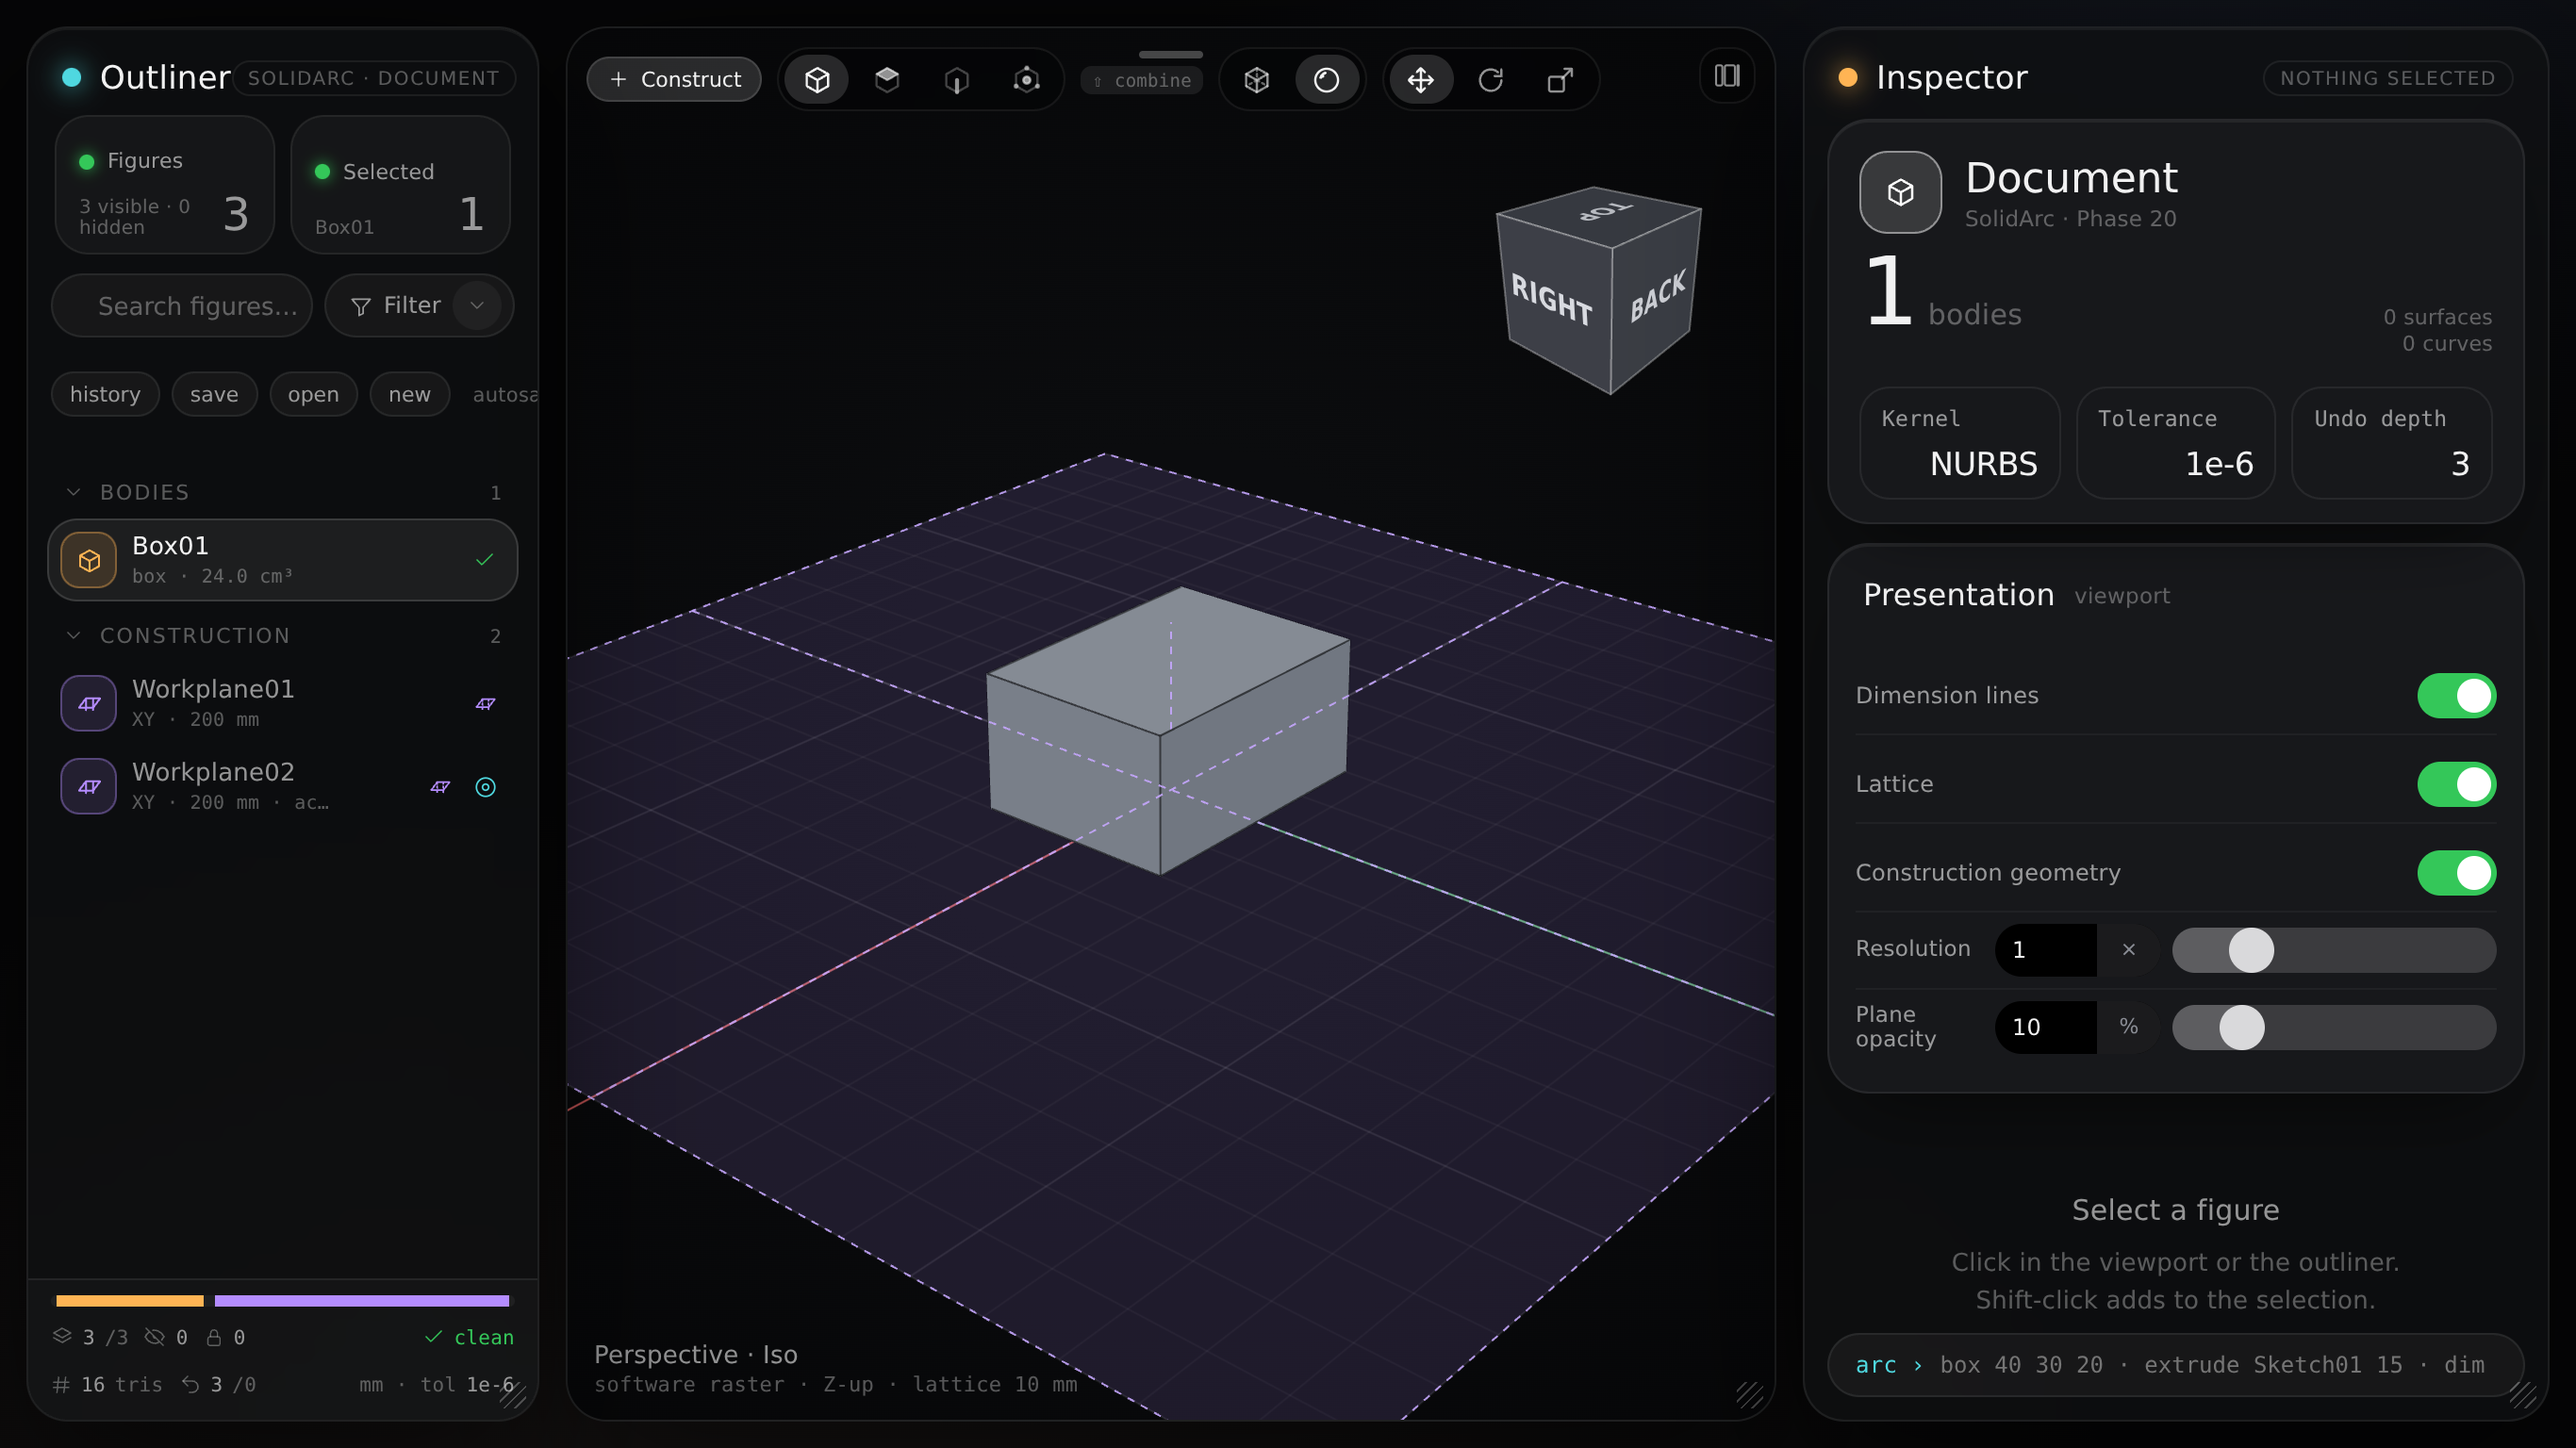
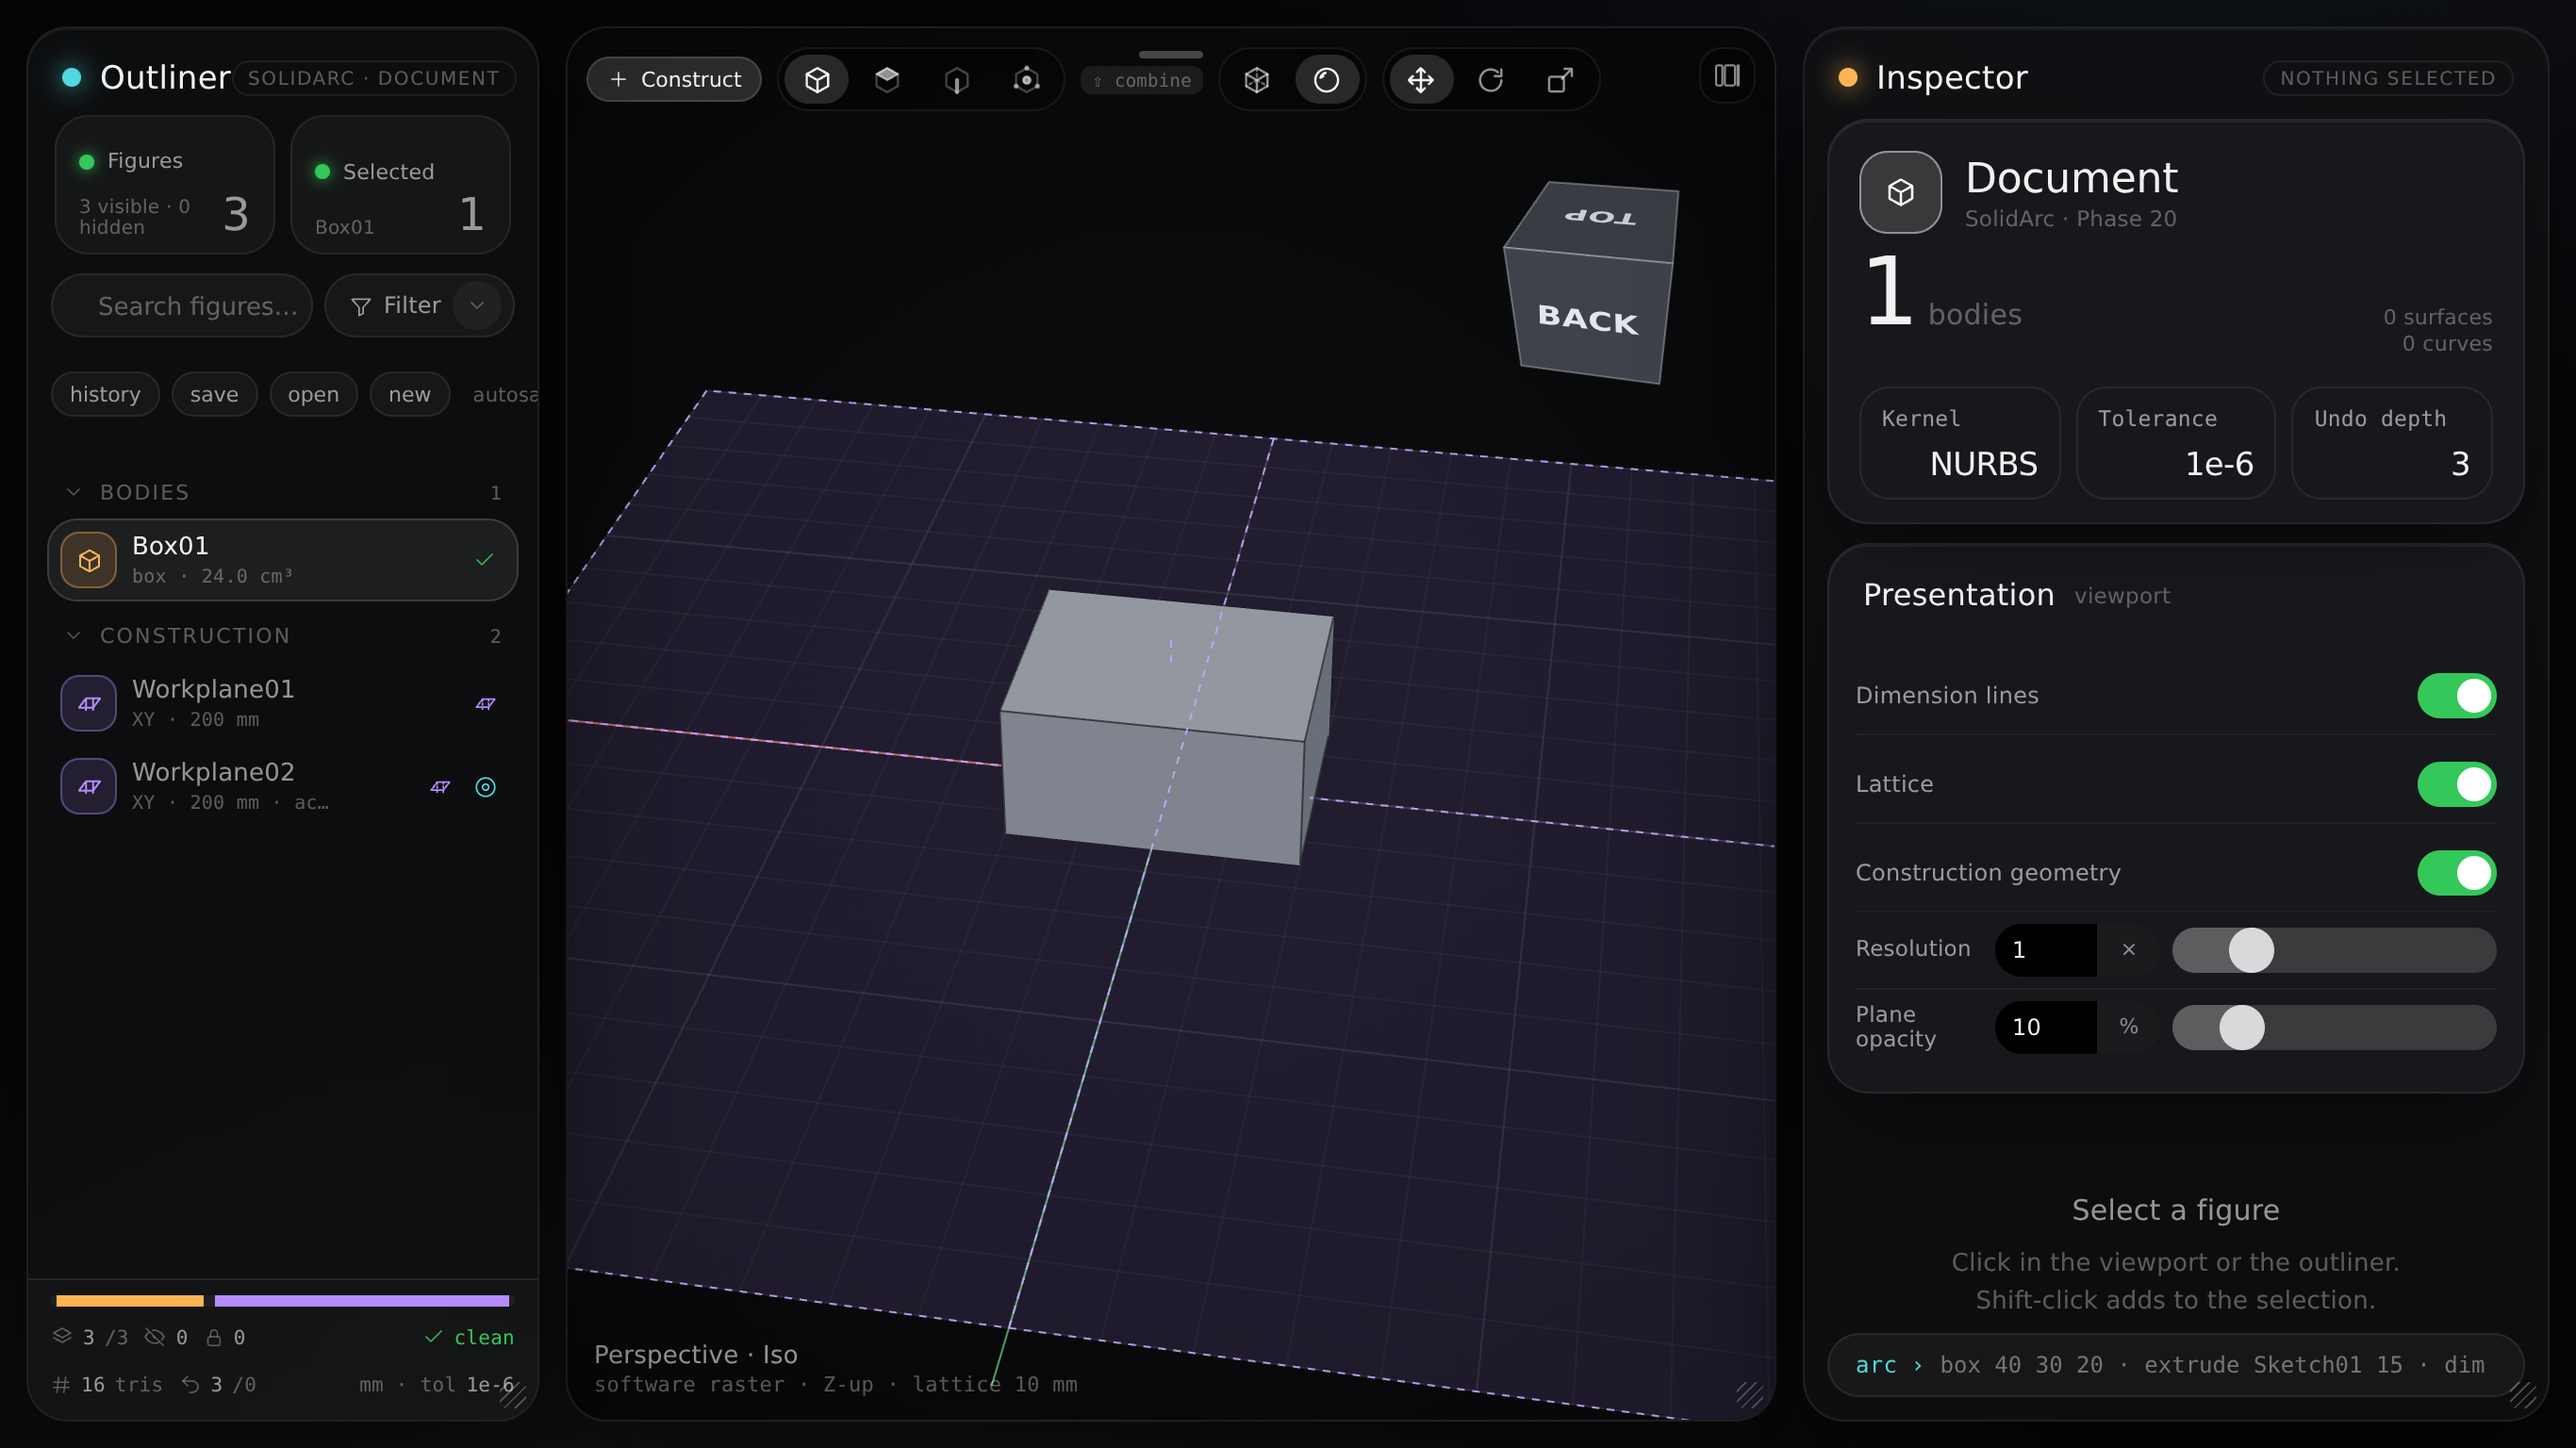
SolidArc viewport: paint workplane fills first so bodies are no longer tinted/cut by the plane sheet (box vs grid mismatch)

diff --git a/SolidArcInspectorDesign/solidarc/index.html b/SolidArcInspectorDesign/solidarc/index.html
@@ -1515,7 +1515,8 @@ function drawInner(){if(!draw._sync){draw._sync=true;try{syncLinks();}finally{dr
     else if(m.quads){m.quads.forEach(q=>{for(let k=0;k<4;k++){const a=project(xform(f,q.p[k])),b=project(xform(f,q.p[(k+1)%4]));if(a&&b)items.push({z:Math.min(a[2],b[2]),type:'l',s:[a,b],f,sel,acc,faint:true});}});}
     m.lines.forEach(l=>{const s=l.map(p=>project(xform(f,p)));if(s.some(x=>!x))return;items.push({z:Math.min(s[0][2],s[1][2])-0.05,type:'l',s,f,sel,acc,cons:f.cons||m.cons,tan:l.tangent});});
     });
-  items.sort((a,b)=>b.z-a.z);drawRegions(g);
+  /* workplane fills are a translucent backdrop: always paint them first so a body is never tinted/cut by the plane sheet it stands on */
+  items.sort((a,b)=>{const pa=a.type==='p',pb=b.type==='p';return pa!==pb?(pa?-1:1):b.z-a.z;});drawRegions(g);
   items.forEach(it=>{if(it.type==='f'){g.fillStyle=it.sel?'rgba(127,240,245,.22)':'rgba(79,216,224,.12)';g.beginPath();it.s.forEach((q,i)=>i?g.lineTo(q[0],q[1]):g.moveTo(q[0],q[1]));g.closePath();g.fill();}
     else if(it.type==='p'){const A=doc.planeAlpha==null?0.10:doc.planeAlpha;g.fillStyle=it.act?`rgba(180,140,255,${A})`:`rgba(180,140,255,${A*.35})`;g.beginPath();g.moveTo(it.s[0][0],it.s[0][1]);g.lineTo(it.s[1][0],it.s[1][1]);g.lineTo(it.s[2][0],it.s[2][1]);g.closePath();g.fill();}
     else if(it.type==='t'){const {n,vd}=it;let col;const lam=Math.max(0,dot(n,light)),amb=.18;
